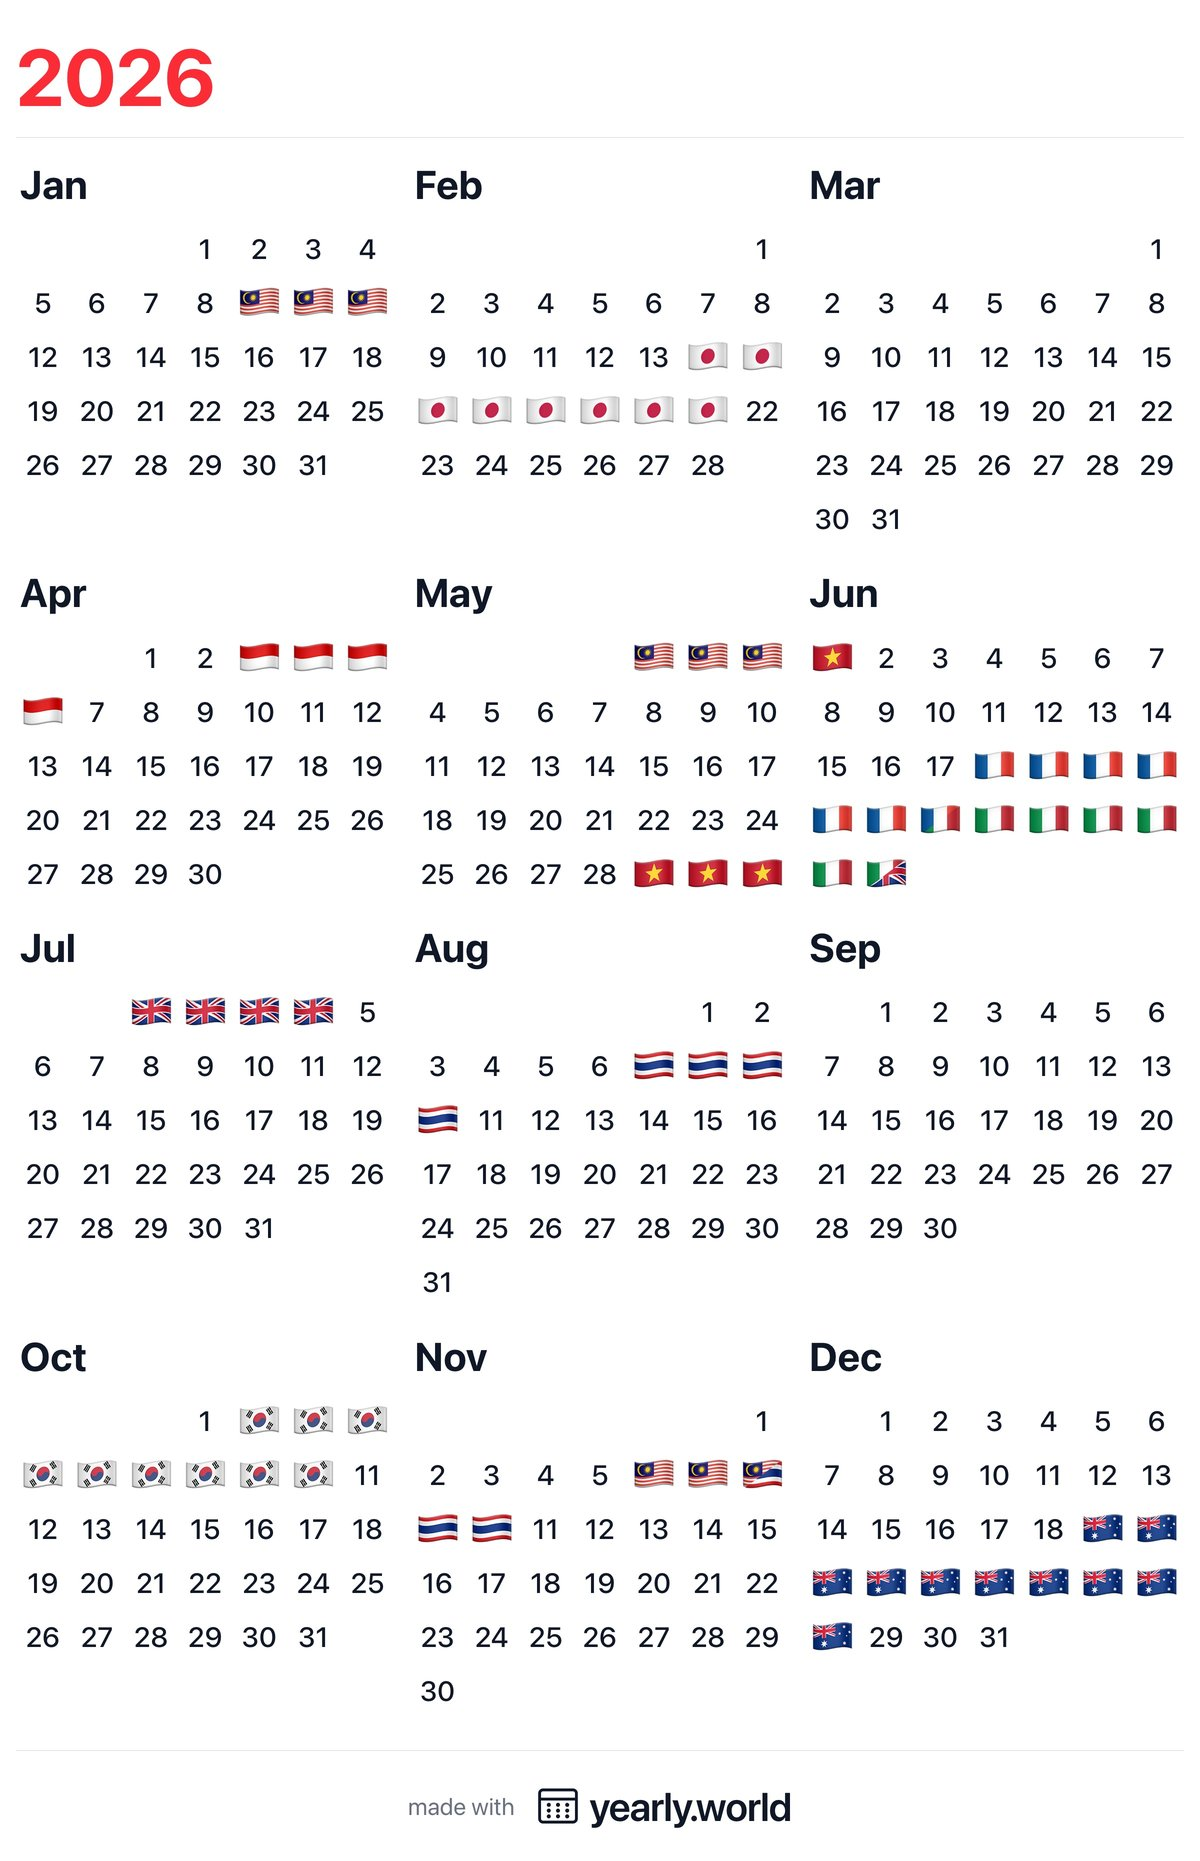
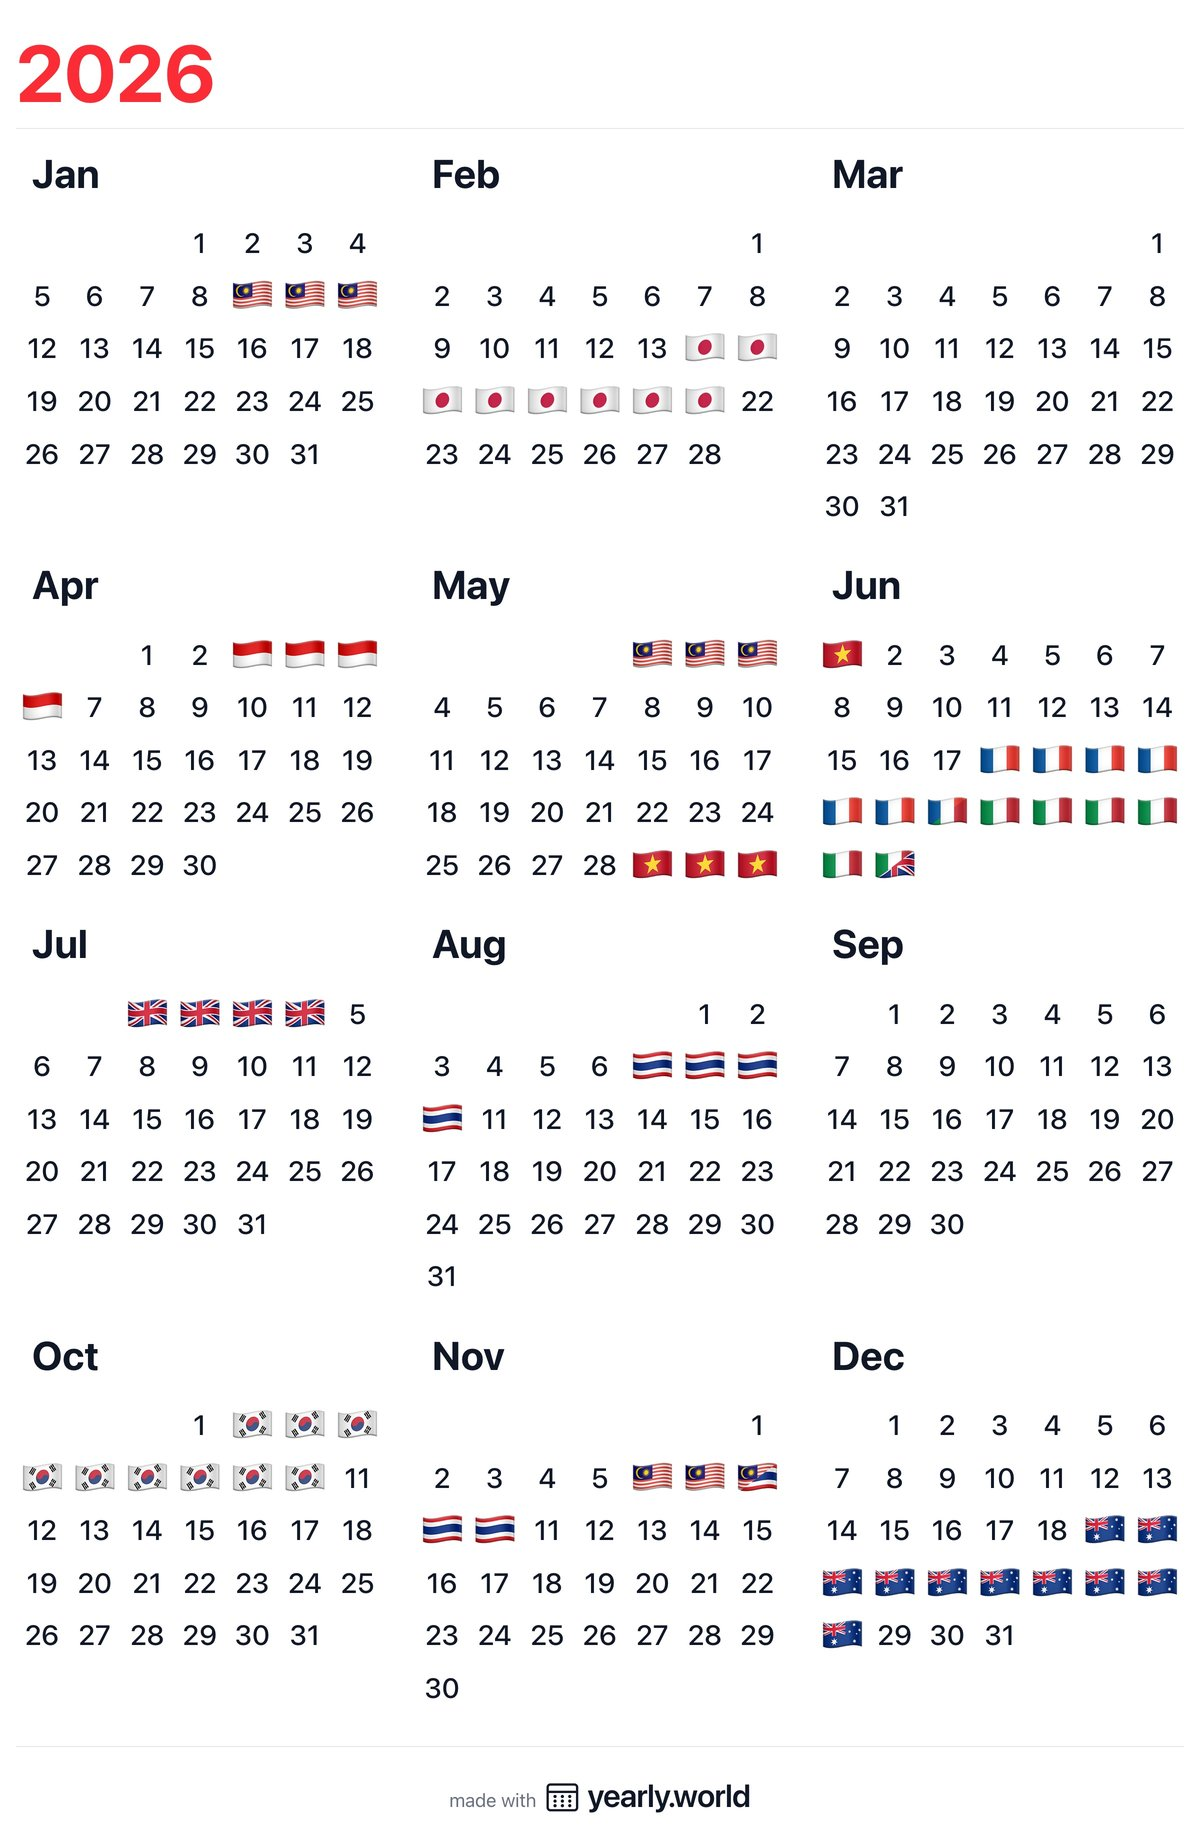
fix: Make the export watermark smaller and align its text
Scale the watermark down by 20%, put "made with" on the same baseline
as "yearly.world", and tighten the gap before the logo. Regenerate the
homepage examples with the new watermark.

diff --git a/src/lib/homepage-examples.test.ts b/src/lib/homepage-examples.test.ts
@@ -1,10 +1,36 @@
-import { existsSync } from 'node:fs'
+import { readFileSync } from 'node:fs'
 import path from 'node:path'
 import { describe, expect, it } from 'vitest'
 import { HOMEPAGE_EXAMPLES } from './homepage-examples'
 
+function readJpegSize(file: string) {
+  const data = readFileSync(file)
+  let offset = 2
+  while (offset < data.length) {
+    const marker = data[offset + 1]
+    const length = data.readUInt16BE(offset + 2)
+    if (
+      marker >= 0xc0 &&
+      marker <= 0xcf &&
+      ![0xc4, 0xc8, 0xcc].includes(marker)
+    ) {
+      return {
+        height: data.readUInt16BE(offset + 5),
+        width: data.readUInt16BE(offset + 7),
+      }
+    }
+    offset += 2 + length
+  }
+  throw new Error(`No JPEG frame header in ${file}`)
+}
+
 describe('HOMEPAGE_EXAMPLES', () => {
-  it.each(HOMEPAGE_EXAMPLES)('$src exists in public/', ({ src }) => {
-    expect(existsSync(path.join(process.cwd(), 'public', src))).toBe(true)
-  })
+  it.each(HOMEPAGE_EXAMPLES)(
+    '$src exists with the declared size',
+    ({ src, width, height }) => {
+      const file = path.join(process.cwd(), 'public', src)
+
+      expect(readJpegSize(file)).toEqual({ width, height })
+    }
+  )
 })

diff --git a/src/components/ExportWatermark.tsx b/src/components/ExportWatermark.tsx
@@ -44,13 +44,13 @@ export default function ExportWatermark() {
       data-export-watermark
       className="hidden mt-6 pt-4 border-t border-gray-200 dark:border-white/10"
     >
-      <p className="flex items-center justify-center gap-[0.4em] leading-none">
+      <p className="flex items-baseline justify-center gap-[0.14em] leading-none">
         <span className="text-[0.62em] text-gray-500 dark:text-zinc-400">
           made with
         </span>
-        <span className="flex items-center gap-[0.22em] font-semibold tracking-tight text-gray-900 dark:text-zinc-100">
-          <LogoMark className="size-[1.15em] shrink-0" />
-          yearly.world
+        <span className="flex items-baseline gap-[0.22em] font-semibold tracking-tight text-gray-900 dark:text-zinc-100">
+          <LogoMark className="size-[1.15em] shrink-0 self-center" />
+          <span>yearly.world</span>
         </span>
       </p>
     </div>

diff --git a/src/lib/homepage-examples.ts b/src/lib/homepage-examples.ts
@@ -10,7 +10,7 @@ export const HOMEPAGE_EXAMPLES: HomepageExample[] = [
   {
     src: '/examples/travel-calendar-2026-yearly.jpg',
     width: 1200,
-    height: 1861,
+    height: 1848,
     alt: 'A 2026 travel calendar where country flags replace the days spent in Malaysia, Japan, France, Italy, South Korea and Australia, made with Yearly',
     caption: 'Full year',
   },

diff --git a/src/lib/hooks/useMonthlyExport.ts b/src/lib/hooks/useMonthlyExport.ts
@@ -97,7 +97,7 @@ export function useMonthlyExport({
           watermark.style.display = 'block'
           watermark.style.marginTop = 'auto'
           watermark.style.paddingTop = '2rem'
-          watermark.style.fontSize = '2.25rem'
+          watermark.style.fontSize = '1.8rem'
         }
 
         const allElements = clonedElement.querySelectorAll('*')

diff --git a/src/lib/hooks/useStatisticsExport.ts b/src/lib/hooks/useStatisticsExport.ts
@@ -91,7 +91,7 @@ export function useStatisticsExport({
         watermark.style.display = 'block'
         watermark.style.marginTop = 'auto'
         watermark.style.paddingTop = '2rem'
-        watermark.style.fontSize = '2.5rem'
+        watermark.style.fontSize = '2rem'
       }
 
       const allElements = clonedElement.querySelectorAll('*')

diff --git a/src/lib/hooks/useImageExport.ts b/src/lib/hooks/useImageExport.ts
@@ -111,7 +111,7 @@ export function useImageExport({
         watermark.style.display = 'block'
         watermark.style.marginTop = '2rem'
         watermark.style.paddingTop = '2rem'
-        watermark.style.fontSize = '2.5rem'
+        watermark.style.fontSize = '2rem'
       }
 
       // Override any responsive spacing/sizing
